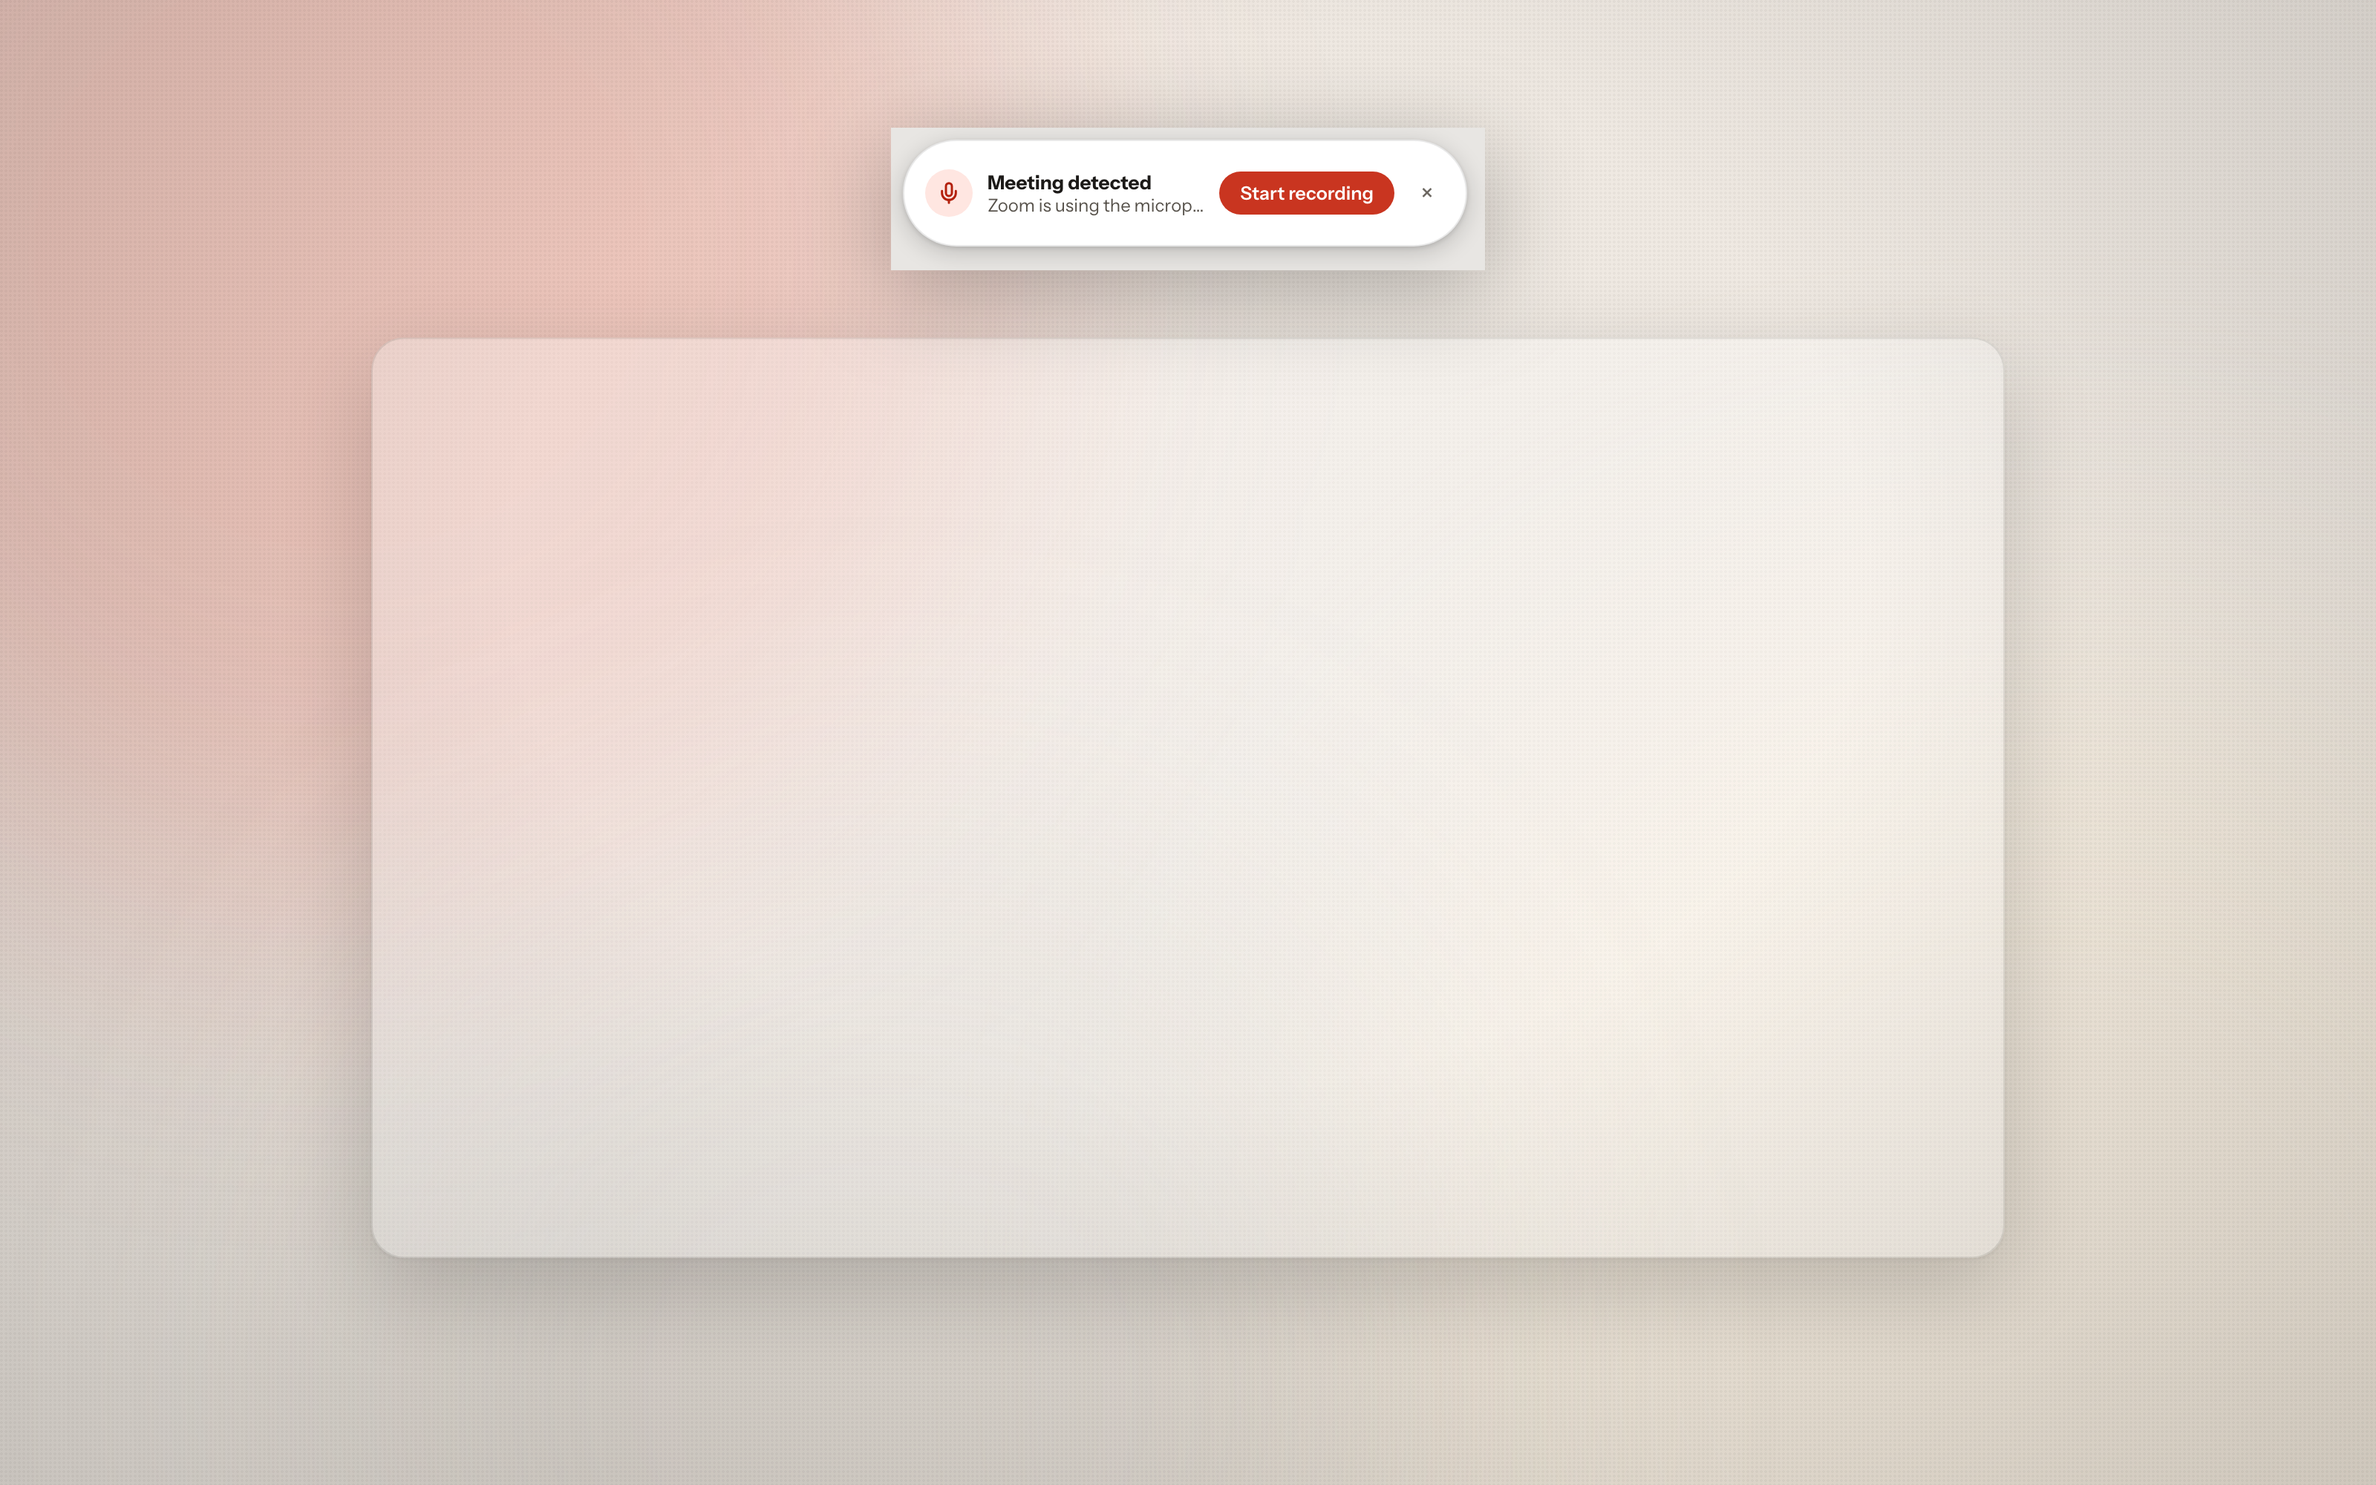
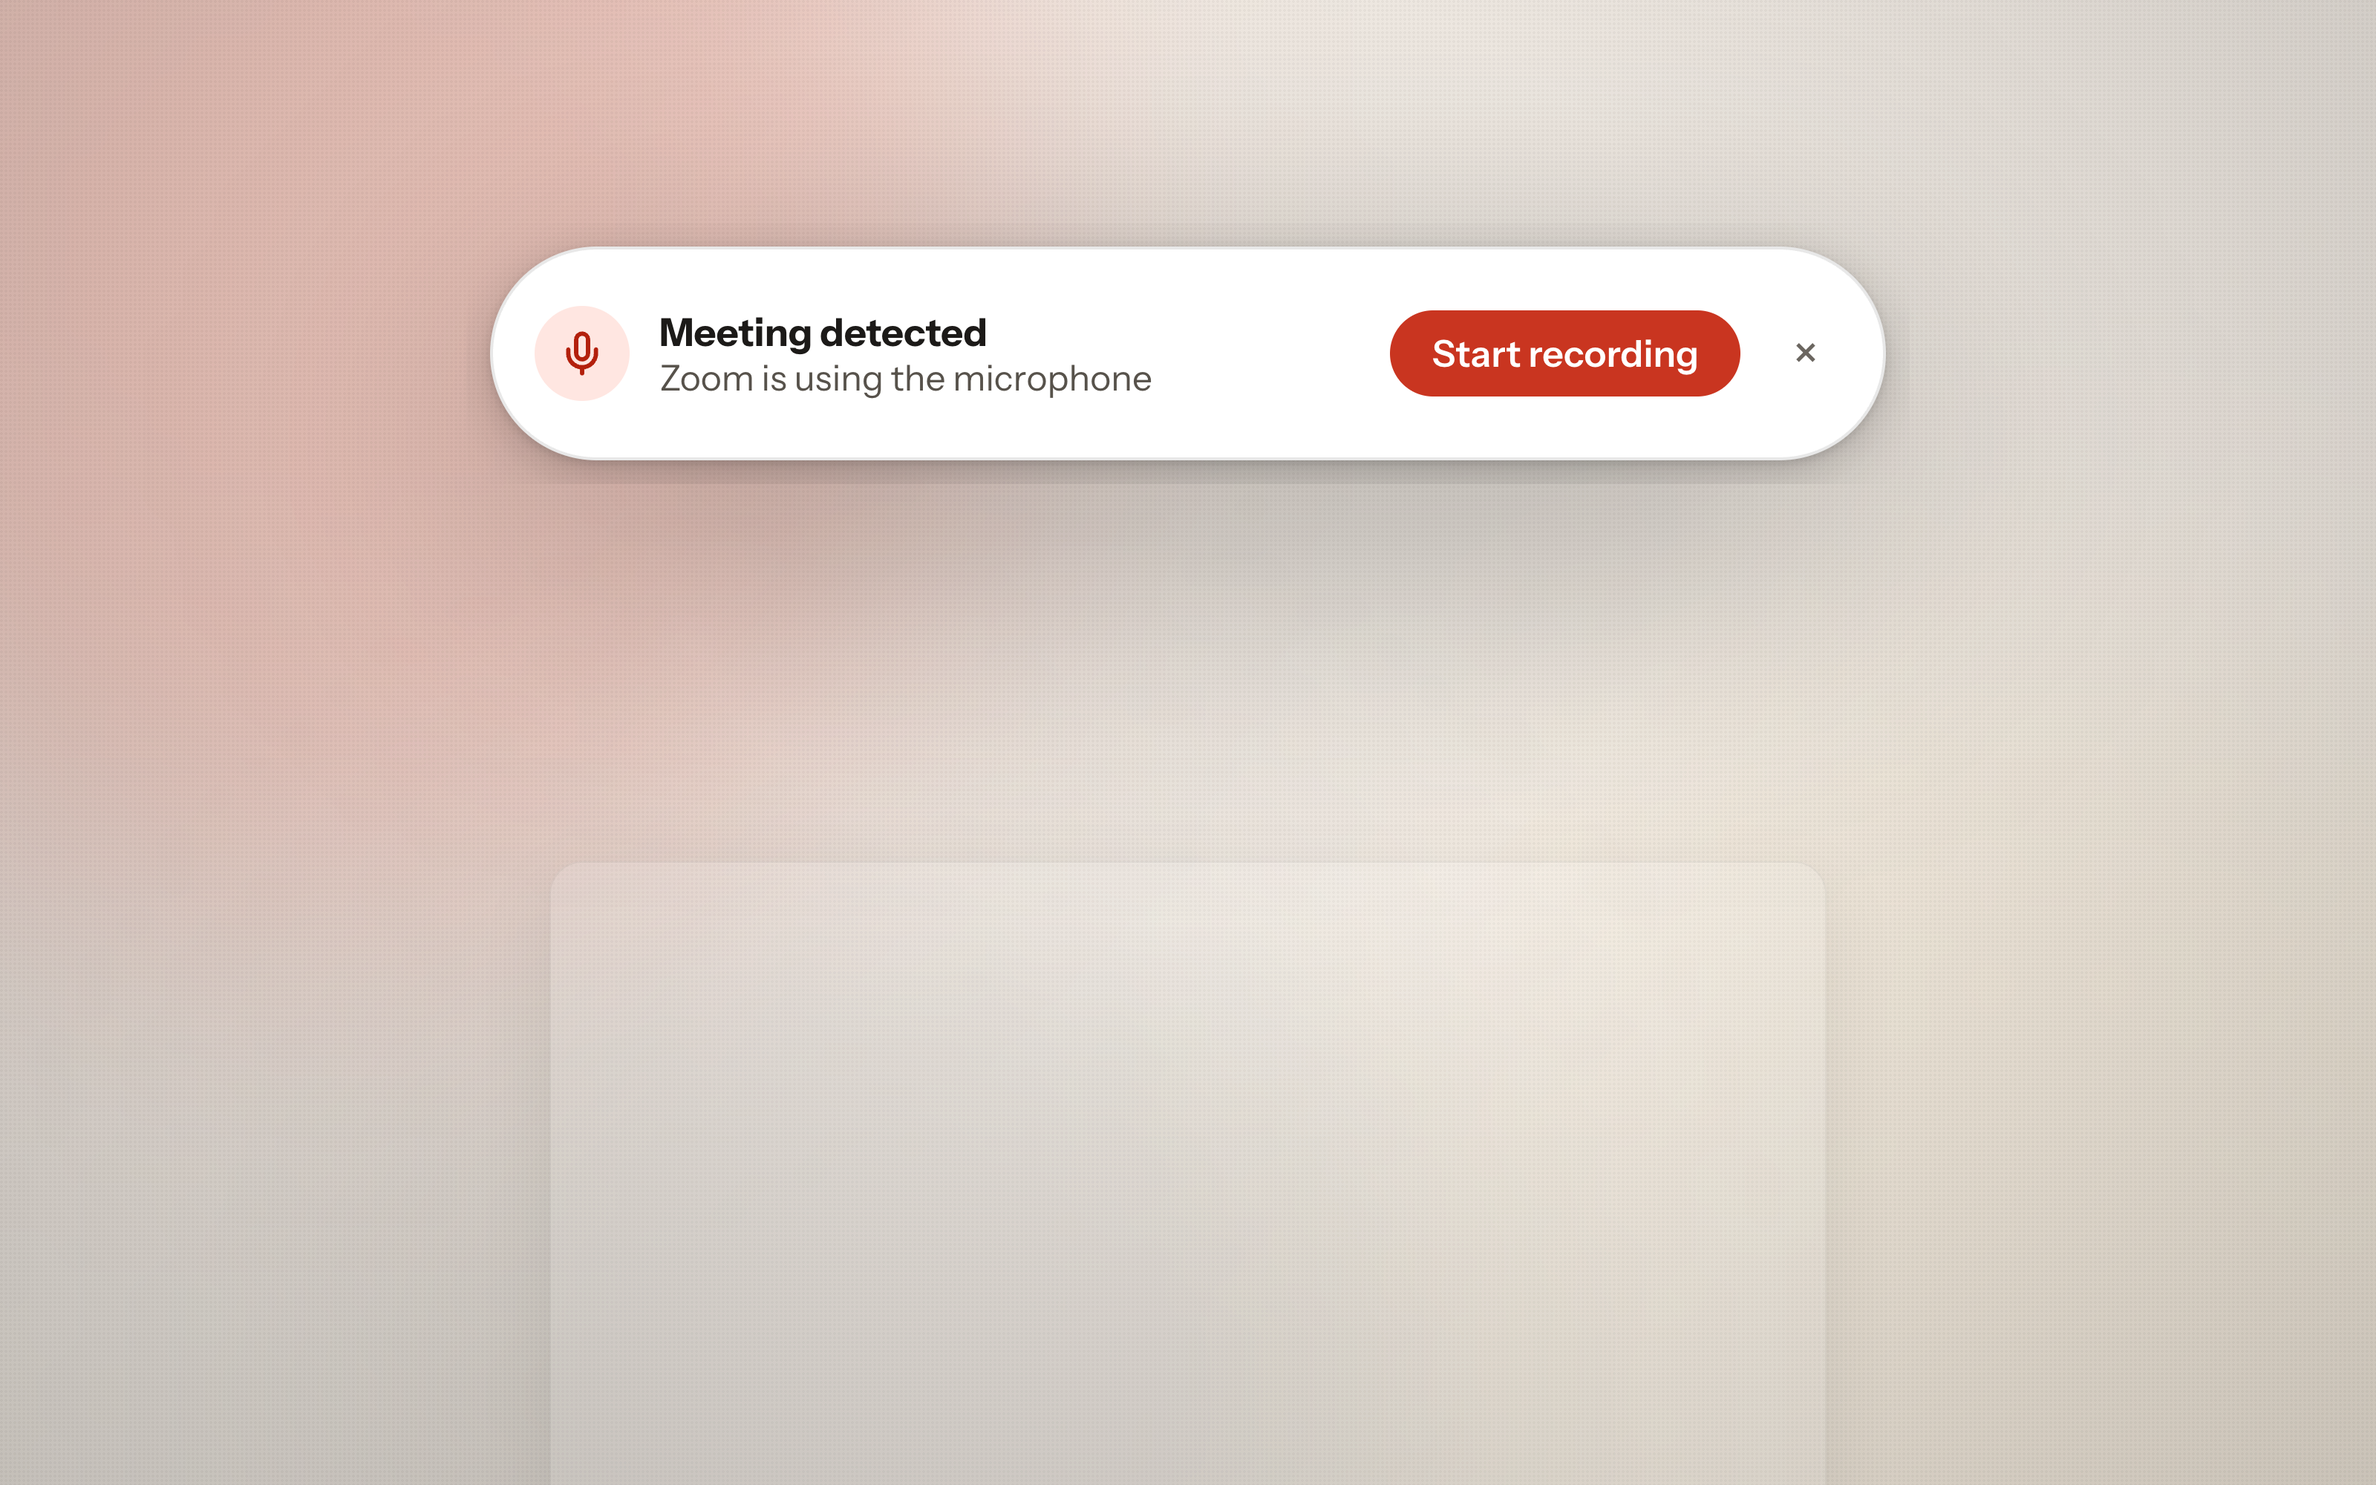
docs: download link and a clearer popup screenshot
Add a download CTA (latest-release link + direct DMG link + the
right-click-to-open note) right under the hero image, and trim the
Install section so it points at the same release instead of repeating
the "build from source" pitch as if no build existed.

Also redo the popup marketing screenshot: the pill was tiny, its
subtitle truncated ("Zoom is using the microp..."), and a solid white
box sat behind it. The truncation turned out to be a real product bug,
not just a screenshot artifact - the pill's own 380px width (matching
the native popup window) genuinely clips "Another app is using the
microphone" and "Microsoft Teams is using the microphone" in the
shipped app, so both Pill.tsx and popup.rs's PANEL_WIDTH move to 470.
The white box was a harness-only Chromium quirk: a `color-scheme` meta
(or an inline `color-scheme: dark` set on the child document) forces an
opaque canvas paint behind a transparent same-origin iframe; worked
around by dropping the meta from screenshot.html and pinning the popup
iframe's own color-scheme back to light after the theme override runs.
The marketing frame itself now renders the pill at 2x in the upper
half and shrinks/dims the fake call window into a lower-half backdrop
instead of dead space.

Changed region(s): [[0.1562, 0.062, 0.8438, 0.806], [0.2188, 0.837, 0.7812, 0.868]]

diff --git a/screenshot.html b/screenshot.html
@@ -2,7 +2,21 @@
 <html lang="en">
   <head>
     <meta charset="UTF-8" />
-    <meta name="color-scheme" content="light dark" />
+    <!-- No `<meta name="color-scheme">` here, deliberately — this is the one
+         difference from every other document in the app (index.html,
+         popup.html, screenshot-app.html all declare it). This page's own
+         dark variant is driven entirely by the explicit `html[data-theme]`
+         attribute the inline script below sets (never `prefers-color-scheme`
+         media matching), so the meta tag buys this document nothing — and
+         confirmed (headless Chrome, same-origin nested iframe, both at
+         `--force-device-scale-factor=2`) that declaring it here forces an
+         opaque default canvas paint *behind the `?state=popup` pill's
+         iframe*, defeating that iframe's own `background: transparent` and
+         showing as a solid white rectangle around the pill. Isolated with a
+         battery of minimal repros (a lime backdrop + a same-origin iframe
+         set to transparent): removing just this meta tag from the outer
+         page — nothing about the iframe or its content — was the one change
+         that fixed it. -->
     <title>Minute — marketing capture frame</title>
     <style>
       :root {
@@ -148,8 +162,13 @@
          the same paper-warm backdrop as the other six shots (keeps the set
          visually one family) plus a plain, unbranded glassy rectangle
          standing in for "some call window behind it" — no logos, no invented
-         chrome — and a soft vignette so the floating pill reads as the
-         subject of the shot instead of the backdrop. */
+         chrome. The pill is the subject of this shot, not the rectangle: it
+         renders at 2x scale in the upper-middle of the frame (real marketing
+         convention for a small transient UI element — see e.g. how OS
+         vendors shoot notification/toast captures), and the fake call
+         window behind it is shrunk, pushed into the lower half, and dimmed
+         so it reads as "context this appeared over" rather than competing
+         for attention. A soft vignette reinforces the same read. */
       body.state-popup .window-chrome,
       body.state-popup .traffic-lights {
         display: none;
@@ -158,41 +177,56 @@
         position: absolute;
         inset: 0;
         pointer-events: none;
-        background: radial-gradient(ellipse at 50% 38%, transparent 40%, rgba(0, 0, 0, 0.16) 100%);
+        background: radial-gradient(ellipse at 50% 30%, transparent 32%, rgba(0, 0, 0, 0.18) 100%);
       }
       html[data-theme='dark'] .vignette {
-        background: radial-gradient(ellipse at 50% 38%, transparent 35%, rgba(0, 0, 0, 0.4) 100%);
+        background: radial-gradient(ellipse at 50% 30%, transparent 28%, rgba(0, 0, 0, 0.44) 100%);
       }
+      /* Deliberately smaller than the other shots' `.window-chrome`, parked
+         in the lower half only (its top edge starts past the frame's
+         vertical center) and dimmed via `opacity` — background context for
+         "a call was happening", never mistaken for the actual subject. */
       .desktop-window {
         position: absolute;
-        top: 50%;
+        top: 58%;
         left: 50%;
-        transform: translate(-50%, -44%);
-        width: 1100px;
-        height: 620px;
+        transform: translate(-50%, 0%);
+        width: 860px;
+        height: 480px;
         border-radius: 22px;
-        background: rgba(255, 255, 255, 0.32);
+        background: rgba(255, 255, 255, 0.3);
         border: 1px solid var(--window-border);
+        opacity: 0.5;
         box-shadow:
-          0 1px 2px rgba(0, 0, 0, 0.05),
-          0 20px 60px rgba(0, 0, 0, 0.18);
+          0 1px 2px rgba(0, 0, 0, 0.04),
+          0 16px 48px rgba(0, 0, 0, 0.14);
       }
       html[data-theme='dark'] .desktop-window {
-        background: rgba(255, 255, 255, 0.045);
+        background: rgba(255, 255, 255, 0.04);
+        opacity: 0.6;
       }
+      /* Sized to the pill's real natural footprint (Pill.tsx: 470x72 plus
+         its own 8px outer margin on every side = 486x88 — see Pill.tsx's
+         width comment for why 470, not the plan's original 380) so nothing
+         clips, then scaled 2x from its top edge to sit large and prominent
+         in the upper-middle of the frame. `transform-origin: top center`
+         keeps the scale expanding downward from a fixed top anchor instead
+         of also pushing the top edge upward, which made the vertical
+         placement fiddly to reason about. */
       .pill-frame-wrap {
         position: absolute;
-        top: 86px;
+        top: 150px;
         left: 50%;
-        transform: translateX(-50%);
-        width: 400px;
-        height: 96px;
-        filter: drop-shadow(0 14px 32px rgba(0, 0, 0, 0.28));
+        transform: translateX(-50%) scale(2);
+        transform-origin: top center;
+        width: 486px;
+        height: 88px;
+        filter: drop-shadow(0 26px 52px rgba(0, 0, 0, 0.34));
       }
       .pill-frame-wrap iframe {
         display: block;
-        width: 400px;
-        height: 96px;
+        width: 486px;
+        height: 88px;
         border: none;
         background: transparent;
       }

diff --git a/src/screenshot/main.tsx b/src/screenshot/main.tsx
@@ -28,6 +28,22 @@ mockConvertFileSrc('macos')
 installFakeAudio()
 installMockIpc(state)
 
+if (state === 'popup') {
+  // The production popup window (popup.html, created `transparent: true` —
+  // see src-tauri/src/popup.rs) sets its own html/body to
+  // `background: transparent` because the *pill* carries the visible
+  // surface (--card/--border/shadow — see Pill.tsx), not the document.
+  // screenshot-app.html doesn't do that itself: every other `?state=` mounts
+  // `<App/>`, which needs and paints its own opaque canvas, so an always-
+  // transparent document here would be wrong for those. Left as the UA
+  // default (opaque white) for the `popup` state instead, this exact
+  // document would render as a solid white rectangle behind/around the
+  // pill — not what the real transparent window shows — so it's overridden
+  // for this one state only, same rule popup.html itself follows.
+  document.documentElement.style.background = 'transparent'
+  document.body.style.background = 'transparent'
+}
+
 const root = document.getElementById('root')
 if (!root) throw new Error('screenshot harness: #root not found')
 // `popup` mounts the real Pill component directly (see src/popup/main.tsx)
@@ -40,6 +56,26 @@ createRoot(root).render(state === 'popup' ? <Pill /> : <App />)
 // captures non-deterministic. Deferred a tick so the real stylesheet
 // (injected by Vite's dev CSS pipeline) is guaranteed to already be in
 // `document.styleSheets`.
-requestAnimationFrame(() => applyThemeOverride(theme))
+requestAnimationFrame(() => {
+  applyThemeOverride(theme)
+  if (state === 'popup' && theme === 'dark') {
+    // applyThemeOverride just set `documentElement.style.colorScheme =
+    // 'dark'` — reasonable in general, but it reproduces the exact same
+    // Chromium headless quirk the transparent-background fix above exists
+    // for: a nested same-origin iframe whose *own* `color-scheme` resolves
+    // to dark gets an opaque canvas-fallback paint behind it instead of
+    // staying transparent, even with `background: transparent` explicitly
+    // set on both html and body. (Confirmed the same way as the meta-tag
+    // case: light doesn't trigger it, dark does, and it disappears the
+    // moment this is forced back.) Never reachable in the real app —
+    // popup.html's window is natively transparent at the OS level, never
+    // nested inside another page's iframe — and harmless to override here:
+    // the pill's dark colors already come entirely from the CSS custom
+    // properties applyThemeOverride just injected (--card, --ink, etc.),
+    // not from native color-scheme form-control theming, so forcing this
+    // back to 'light' changes nothing about how the pill actually looks.
+    document.documentElement.style.colorScheme = 'light'
+  }
+})
 
 void driveScenario(state, params)

diff --git a/src/popup/Pill.tsx b/src/popup/Pill.tsx
@@ -127,7 +127,18 @@ export function Pill({ autoDismissMs = DEFAULT_AUTO_DISMISS_MS }: PillProps) {
         display: 'flex',
         alignItems: 'center',
         gap: 10,
-        width: 380,
+        // 470, not the plan's original "~380" — at 380 the subtitle's
+        // `textOverflow: ellipsis` (below) genuinely clips real copy in the
+        // shipped app, not just this marketing render: "Another app is
+        // using the microphone" (the default, pre-payload text) and
+        // "Microsoft Teams is using the microphone" (the longest
+        // allowlisted app name — see detect.rs's `find_allowlisted`) both
+        // overflowed the old 380px pill mid-word. Confirmed against a real
+        // `popup.html` render at the window's exact logical size before
+        // widening. Keep in lockstep with `PANEL_WIDTH` in
+        // src-tauri/src/popup.rs — that's the actual native window size
+        // this pill is created into.
+        width: 470,
         height: 72,
         boxSizing: 'border-box',
         padding: '0 14px',

diff --git a/src-tauri/src/popup.rs b/src-tauri/src/popup.rs
@@ -64,8 +64,14 @@ use crate::detect::{self, PromptOutcome, SharedDetectorHandle};
 /// listen target (`app.emit_to(PANEL_LABEL, ...)` in `deliver_prompt`).
 pub const PANEL_LABEL: &str = "meeting-popup";
 
-/// Logical pixel size of the pill window — matches the plan's "~380×72".
-const PANEL_WIDTH: f64 = 380.0;
+/// Logical pixel size of the pill window — height matches the plan's
+/// "~380×72"; width was widened from the plan's original 380 to 470 after
+/// confirming the subtitle's ellipsis (see `src/popup/Pill.tsx`) genuinely
+/// clipped real copy ("Another app is using the microphone", "Microsoft
+/// Teams is using the microphone") at 380. Keep this in lockstep with
+/// `Pill.tsx`'s own `width` — that inline style is sized for exactly this
+/// window, not a general-purpose layout.
+const PANEL_WIDTH: f64 = 470.0;
 const PANEL_HEIGHT: f64 = 72.0;
 
 /// Logical-pixel gap between the top of the target display's work area

diff --git a/README.md b/README.md
@@ -9,6 +9,12 @@
 
 ![Minute — note view with live transcript and AI-generated summary](screenshots/hero.png)
 
+**[⬇ Download Minute for macOS (Apple Silicon)](https://github.com/mraza007/minute/releases/latest)**
+
+or grab the DMG directly: [Minute_0.5.0_aarch64.dmg](https://github.com/mraza007/minute/releases/download/v0.5.0/Minute_0.5.0_aarch64.dmg)
+
+It's an unsigned build, so on first launch: right-click the app → **Open**.
+
 </div>
 
 Minute is a fully offline meeting notetaker for macOS. It records audio,
@@ -158,20 +164,22 @@ requirements shown up front.
 
 ## Install
 
-Minute isn't notarized or distributed as a signed build yet — build it from
-source:
+Grab the DMG from the [latest release](https://github.com/mraza007/minute/releases/latest)
+(see the download link up top), or build it from source:
 
 ```bash
-git clone https://github.com/<you>/local-transcription-app.git
-cd local-transcription-app
+git clone https://github.com/mraza007/minute.git
+cd minute
 npm install
 npm run tauri build
 ```
 
 This produces a `.app` (and a `.dmg`) under `src-tauri/target/release/bundle/`.
-On first launch, Minute walks you through picking and downloading a
-transcription + summary model pair sized to your hardware — that's the only
-thing that touches the network, ever.
+Minute isn't notarized yet either way, so macOS will flag it as from an
+unidentified developer — right-click → **Open** past that once. On first
+launch, Minute walks you through picking and downloading a transcription +
+summary model pair sized to your hardware — that's the only thing that
+touches the network, ever.
 
 ## Development
 
